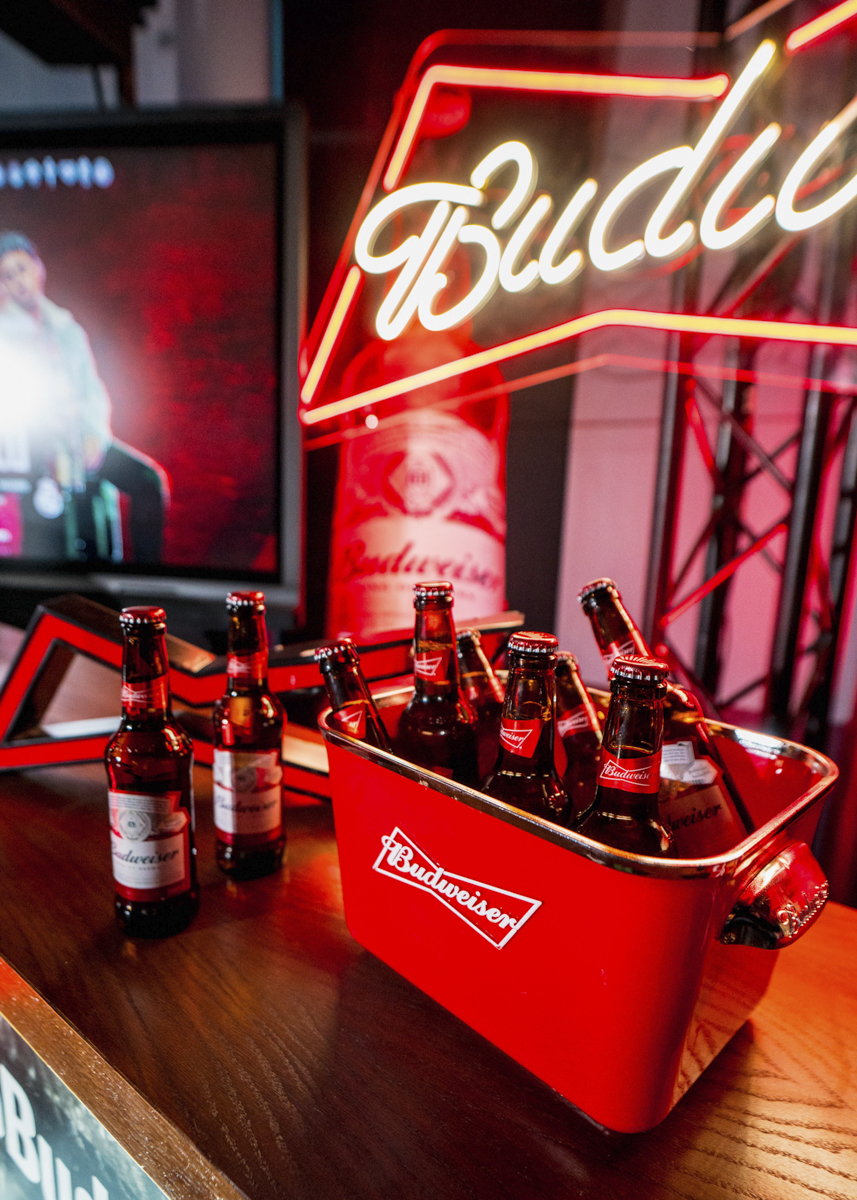
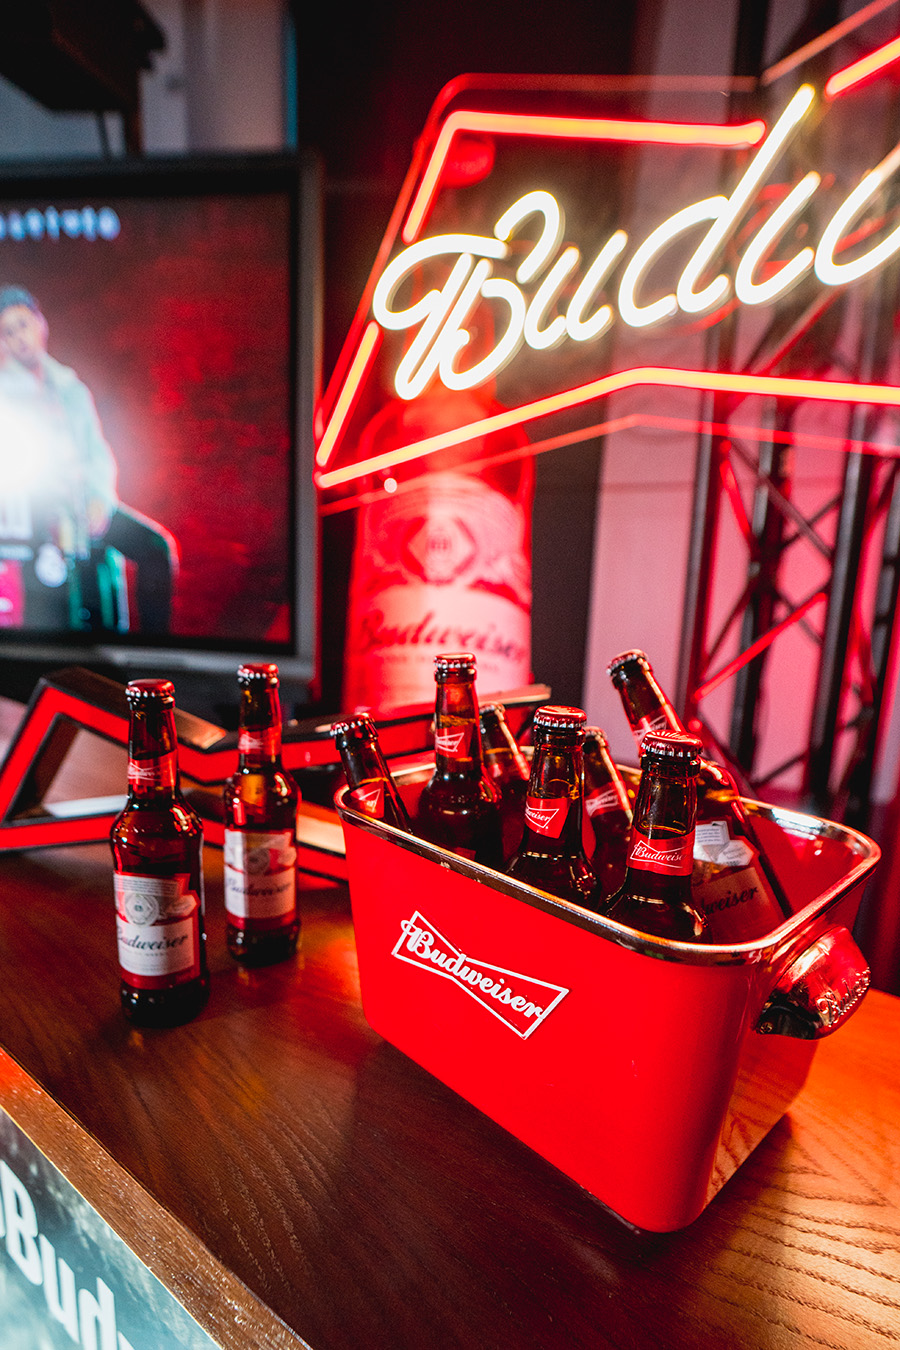
redimensionado de imagenes eventos

diff --git a/eventos.php b/eventos.php
@@ -200,7 +200,7 @@
           </div>
           <div class="grid-item">
             <div class="img_content openImg">
-              <img src="./img/eventos/21-unicef.jpg" alt="UNICEF" />
+              <img src="./img/eventos/19-unicef.jpg" alt="UNICEF" />
               <div class="text_content">
                 <h2 class="title">UNICEF</h2>
                 <h3 class="category">Corporativo</h3>
